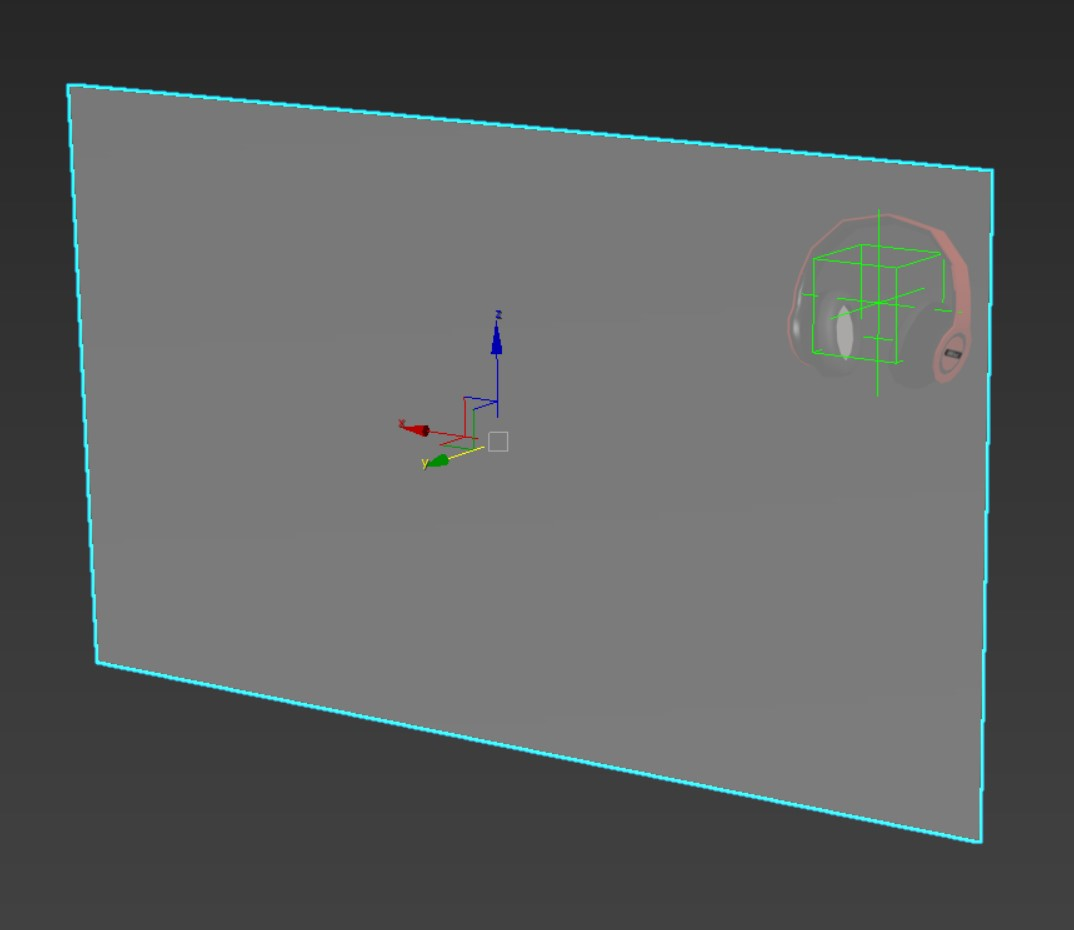
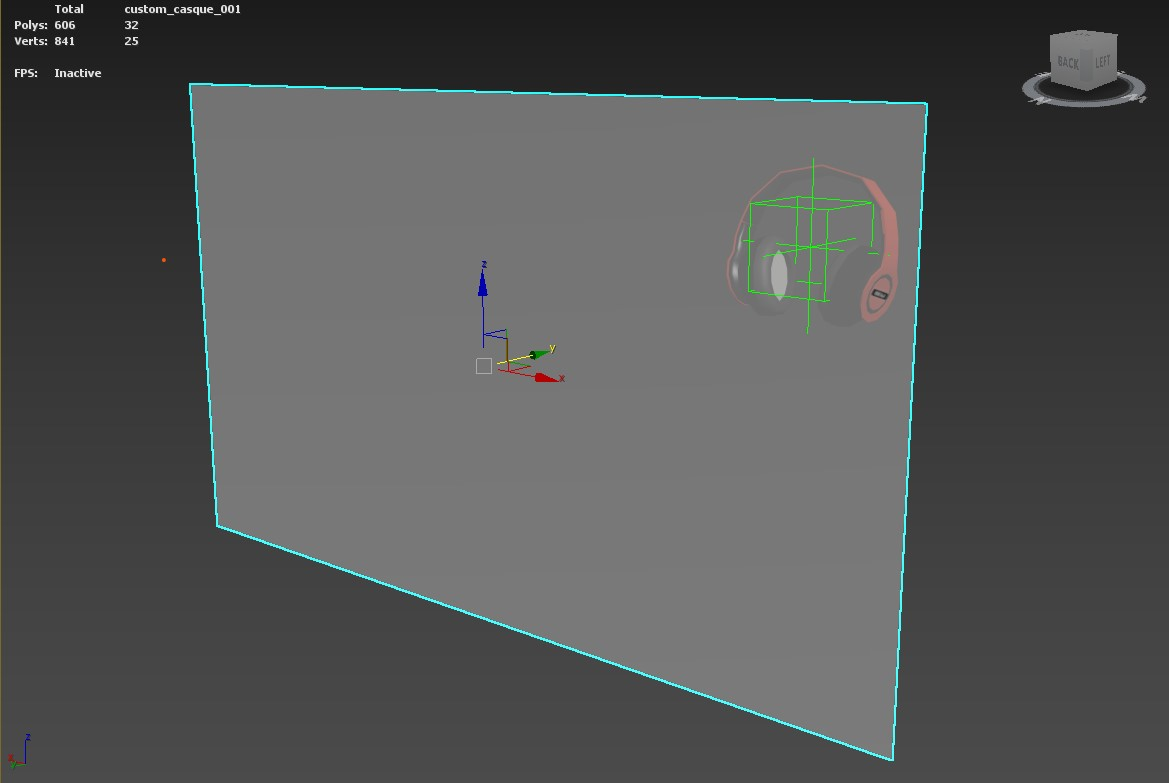
Modified orientation product_customizable

diff --git a/docs/customizable-products.md b/docs/customizable-products.md
@@ -23,7 +23,7 @@ La version où cette fonctionnalité a été introduite dans l'outil maxscript e
 >   - custom_casque_mousse_gris_001
 
 ![custom_product_orientation](images/custom_product_orientation.jpg)
-> Orientation de l'objet parent, Y vers l'avant et Z vers le haut, autrement l'objet sera dans le mauvais sens une fois focus
+> Orientation de l'objet parent, Y vers l'arrière et Z vers le haut, autrement l'objet sera dans le mauvais sens une fois focus
 
 ## Configuration
 Cela se passe dans la partie `productCustomizables` et `customProps` du fichier de config `JSON`.
